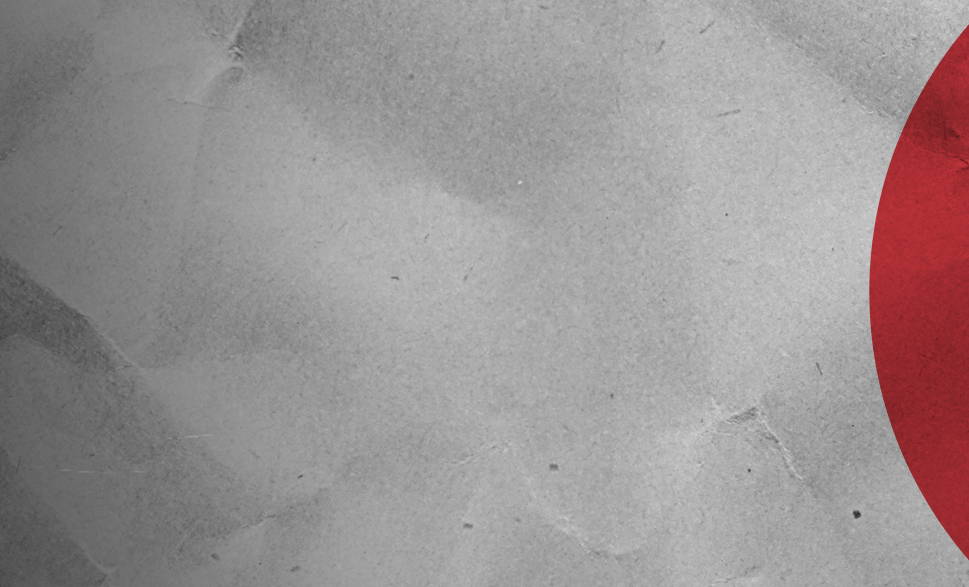
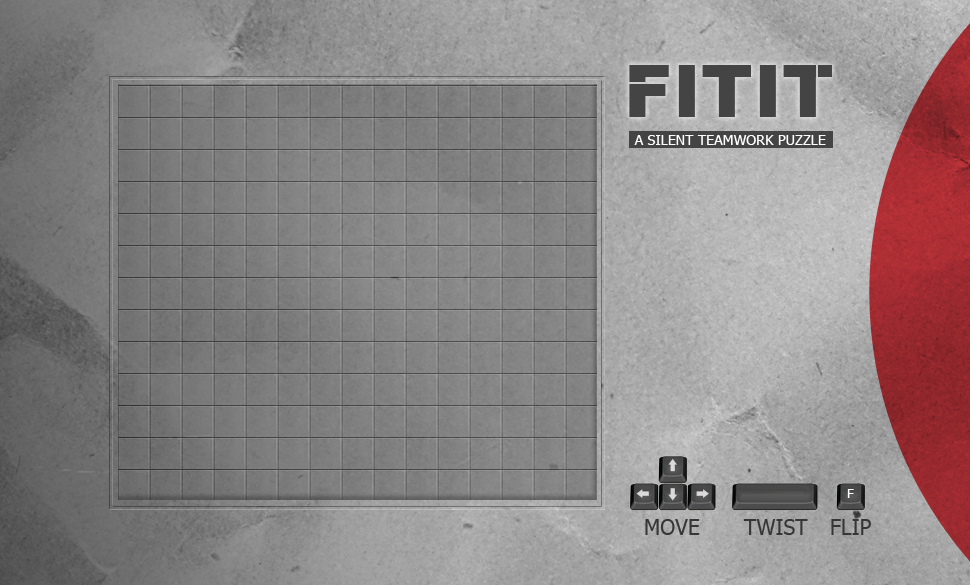
Sasha is a little girl! But he can google like a BAOSS!!!

diff --git a/public/stylesheets/application.css b/public/stylesheets/application.css
@@ -15,8 +15,6 @@ body{overflow:hidden;background-color:#222}
 #container{position:absolute;top:0;left:0;width:100%;height:100%}
 #wrapper{width:970px;height:585px;background-image:url("/images/background-image.png");background-repeat:no-repeat;position:absolute;-webkit-box-shadow:2px 2px 15px #000;-moz-box-shadow:2px 2px 15px #000;-o-border-radius:2px 2px 15px #000;box-shadow:2px 2px 15px #000;}
 #wrapper canvas,#wrapper .logo,#wrapper .info,#wrapper .controls{position:absolute}
-#wrapper canvas{width:480px;height:416px;top:80px;left:110px}
-#wrapper .logo{width:210px;height:90px;top:60px;right:130px;background-image:url("/images/fitit-logo.png");background-repeat:no-repeat}
-#wrapper .info{width:210px;height:240px;top:160px;right:125px;font-size:13px;font-family:'tahoma';color:#444;-webkit-text-shadow:0 0 2px #fff;-moz-text-shadow:0 0 2px #fff;text-shadow:0 0 2px #fff;}
+#wrapper canvas{width:480px;height:416px;top:86px;left:118px}
+#wrapper .info{width:210px;height:240px;top:165px;right:130px;font-size:13px;font-family:'tahoma';color:#444;-webkit-text-shadow:0 0 2px #fff;-moz-text-shadow:0 0 2px #fff;text-shadow:0 0 2px #fff;}
 #wrapper .info p{margin:0 0 10px 0}
-#wrapper .controls{width:220px;height:100px;right:120px;bottom:45px;background-image:url("/images/control-keys.png");background-repeat:no-repeat}

diff --git a/public/javascripts/game/board.js b/public/javascripts/game/board.js
@@ -17,8 +17,6 @@
     Board.prototype.initialize = function(context, boardData) {
       this.context = context;
       this.boardData = boardData;
-      this.defaultImage = new Image();
-      this.defaultImage.src = "/images/default-tile.png";
       this.fittingImage = new Image();
       this.fittingImage.src = "/images/fitting-tile.png";
     };
@@ -41,8 +39,6 @@
               y = rowIndex * 32;
               if (value > 0) {
                 return _this.context.drawImage(_this.fittingImage, x, y);
-              } else {
-                return _this.context.drawImage(_this.defaultImage, x, y);
               }
             })(value, colIndex, rowIndex));
           }

diff --git a/public/javascripts/game/game.js b/public/javascripts/game/game.js
@@ -107,7 +107,8 @@
 
     _Class.prototype.draw = function() {
       var key, player, _ref, _results;
-      this.context.clearRect(this.context.width, this.context.height);
+      this.context.clearRect(0, 0, this.context.canvas.width, this.context.canvas.height);
+      console.log(this.context.canvas.width, this.context.canvas.height);
       this.board.draw();
       _ref = this.players;
       _results = [];
